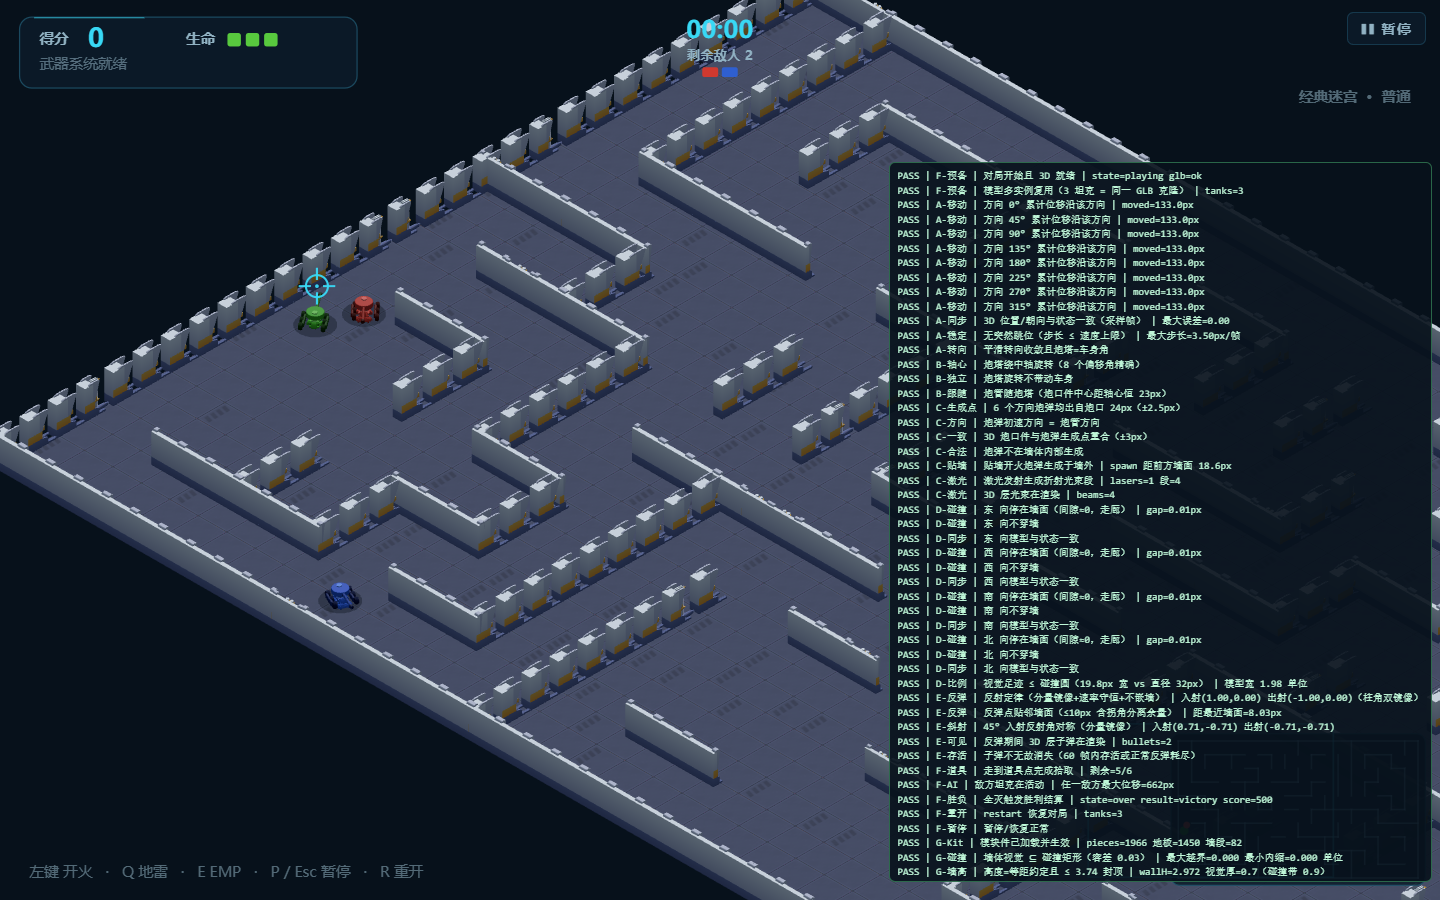
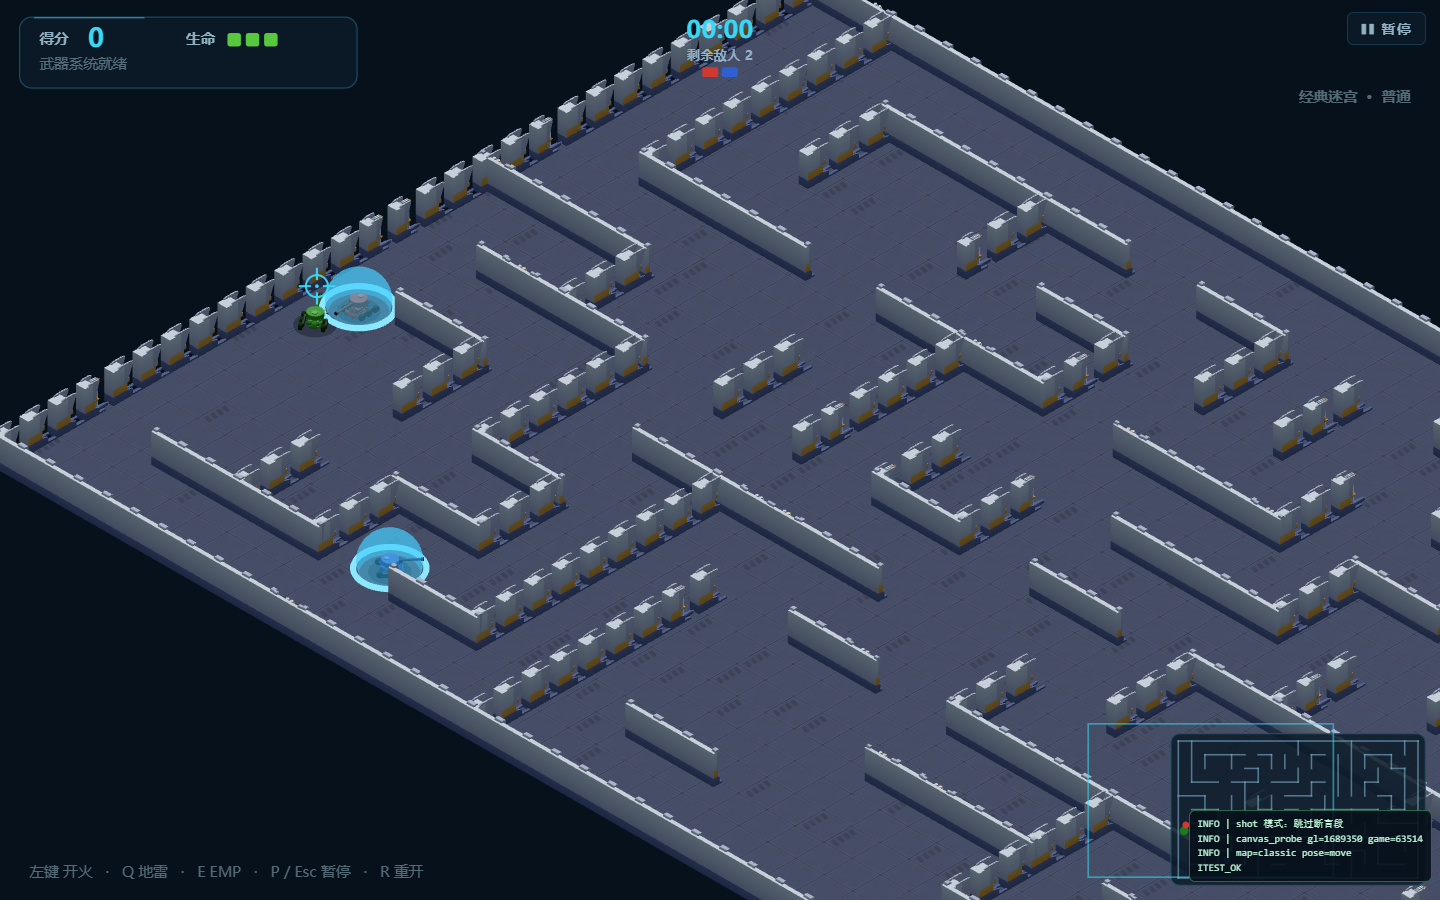
死亡视角停驻 + 3D 护盾可视化（用户试玩反馈两项）
1. 死亡视角：上阶段相机重写引入回归——死亡瞬间 alive=false 使相机目标跳到
   地图中心，画面突兀转移。修复：相机目标跟随坦克对象（尸体位置），死亡倒计时
   期间视角停在死亡位置，重生后才随新出生点移动（与 2D 行为一致）。
   断言：I-死亡 漂移 ≤24px（实测 0.0px）+ 重生后玩家在画面内。

2. 护盾可视化：2D 的复活保护/能量护盾光环（invuln>0 脉冲圆环）此前无 3D 等价物。
   实现：坦克实例挂护盾泡（DoubleSide 半透明青色穹顶，随 invuln*9 脉冲）
   + 基座亮环（实体 torus，任何背景可辨）；死亡/到期显式熄灭。
   断言：I-护盾 拾取后 3D 层可见（shields 0→1）、持续期保持、归零消失。

3. 测试设施：段落断言包 try（异常不再阻断截图摆位，段异常计入 failed）；
   spot 提升 run 级修 'spot is not defined'；新增 &shot=1 截图专用轻量摆位
   （此前 --screenshot 的虚拟时间预算在重型断言段跑完前耗尽，截到菜单/中间态——
   这正是此前截图随机失败的根因）；shieldDebug 场景图诊断 API。

实机截图：integration-shield.png（青色穹顶+基座环清晰包裹坦克）、
integration-death.png（死亡视角停驻+敌方出生保护穹顶）。
回归：92/92 三方面全绿（VM/集成 10 摆位/13 图 rollout 抽样/browser/proto）。
脚本版本升 v=20261025c（强制用户刷新，防缓存混合）。

Changed region(s): [[0.5938, 0.1556, 1.0, 0.9956], [0.2188, 0.5911, 0.3125, 0.6844], [0.2188, 0.28, 0.2812, 0.3733]]

diff --git a/tests/integration-3d.page.js b/tests/integration-3d.page.js
@@ -49,6 +49,7 @@
   function run() {
     const game = window.__tankGame;
     const P3 = window.__proto3d;
+    const SHOT = q.has('shot');   // 截图模式：跳过断言段（虚拟时间预算内完成摆位）
     const iso = game.iso;
     const TAU = Math.PI * 2;
 
@@ -104,7 +105,11 @@
       return game.bullets[game.bullets.length - 1];
     }
 
-    /* ---------- 开局 ---------- */
+    let spot = null;   // run 级：applyPose 需要（try 块内赋值）
+
+    /* ---------- 开局（段落断言包 try：任何异常不阻断截图摆位） ---------- */
+    try {
+      if (SHOT) throw { skip: true };
     game.startMatch({ mapId: MAP, enemies: 2, difficulty: 'normal' });
     everyoneInvuln();
     game.render();
@@ -113,7 +118,7 @@
     check('F-预备 | 模型多实例复用（3 坦克 = 同一 GLB 克隆）', snapshot().tanks.length === 3,
       'tanks=' + snapshot().tanks.length);
 
-    const spot = openSpot(130)
+    spot = openSpot(130)
       || (() => { results.push('FAIL | 预备 | 未找到可站立的开阔点'); return null; })();
     if (!spot) { finish(); return; }
     game.player.x = spot.x; game.player.y = spot.y; game.player.speed = 0;
@@ -611,6 +616,59 @@
           'errors=' + (P3.errors || []).length
           + ((P3.errors && P3.errors.length) ? ' 首条=' + String(P3.errors[0]).slice(0, 120) : ''));
       }
+
+      /* ---------- I 死亡视角 + 护盾可视化（用户实测反馈） ---------- */
+      {
+        game.restart();
+        game.pickups.length = 0; game.pickupTimer = 9999; game.bullets.length = 0;
+        // 敌方全部静默（防碰撞推挤玩家/开火干扰），只考察玩家
+        for (const t of game.tanks) if (!t.isPlayer) t.alive = false;
+        const p = game.player;
+        const dcx = game.viewW / 2, dcy = game.viewH / 2;
+
+        /* ① 死亡期间视角停在死亡位置（不跳地图中心） */
+        p.x = 300; p.y = 300; p.speed = 0; p.invuln = 0;
+        game.camera.follow(p.x, p.y, game.maze.width, game.maze.height);
+        if (game.isoActive) game.followIsoCamera();
+        game.render();
+        const pre = P3.project(p.x, p.y);
+        game.onBulletHit({ ownerId: 99, cluster: false, generation: 2 }, p);   // 击杀玩家
+        const dead0 = !p.alive && game.respawnTimer > 0;
+        for (let i = 0; i < 40; i++) game.update(1 / 60);   // 倒计时中段（<1.4s 不重生）
+        game.render();
+        const mid = P3.project(300, 300);
+        const driftMid = Math.hypot(mid.x - pre.x, mid.y - pre.y);
+        check('I-死亡 | 死亡期间视角停在死亡位置（漂移 ≤24px）', dead0 && driftMid <= 24,
+          'dead=' + dead0 + ' 漂移=' + driftMid.toFixed(1) + 'px');
+        for (let i = 0; i < 160; i++) game.update(1 / 60);  // 跨过重生（延迟1.4s+结算余量）
+        game.render();
+        const post = P3.project(p.x, p.y);
+        // 相机跟随+边缘钳制：出生点贴边时玩家合法偏离中心（拉近视野下更明显），
+        // 正确判据是"玩家在画面内"（跟随不死锁在死亡点/地图中心）
+        const onScreen = Math.min(post.x, game.viewW - post.x, post.y, game.viewH - post.y);
+        const moved = Math.hypot(p.x - 300, p.y - 300) > 50 || (post.x - pre.x) === 0;
+        check('I-死亡 | 重生后视角随新出生点（玩家在画面内）',
+          p.alive && onScreen >= 16 && moved,
+          'alive=' + p.alive + ' 屏幕留白=' + onScreen.toFixed(0) + 'px');
+
+        /* ② 护盾可视化：invuln>0 有护盾泡，归零消失（敌已静默，计数只反映玩家） */
+        p.invuln = 0; game.render();
+        const none = P3.shields;
+        p.applyPickup('shield'); game.render();
+        const on = P3.shields;
+        check('I-护盾 | 拾取能量护盾后坦克出现护盾泡（3D 层可见）', none === 0 && on >= 1,
+          '拾取前=' + none + ' 拾取后=' + on);
+        for (let i = 0; i < 60; i++) game.update(1 / 60);   // 持续期间仍可见
+        game.render();
+        check('I-护盾 | 护盾持续期间保持可见', P3.shields >= 1, 'shields=' + P3.shields);
+        p.invuln = 0; game.render();
+        check('I-护盾 | 护盾到期消失', P3.shields === 0, 'shields=' + P3.shields);
+      }
+    }
+
+    } catch (e) {
+      if (e && e.skip) results.push('INFO | shot 模式：跳过断言段');
+      else { failed++; results.push('FAIL | 段异常 | ' + (e && e.message ? e.message : e)); }
     }
 
     /* ---------- 截图摆位（确定性：摆位 → 冻结逻辑 → 持续重绘） ---------- */
@@ -640,6 +698,8 @@
         return;
       }
       game.startMatch({ mapId: MAP, enemies: 2, difficulty: 'normal' });
+      if (!spot) spot = openSpot(130)
+        || { x: game.maze.width / 2, y: game.maze.height / 2 };   // shot 模式：段落未跑
       // 摆位稳定性约定（与 A–E 段一致）：清道具/全员无敌/重置武器，
       // 避免随机拾取把 fire() 换成激光（炮口摆位将无炮弹）、敌方流弹击毁坦克
       game.pickups.length = 0; game.pickupTimer = 9999;
@@ -661,6 +721,38 @@
         aimMouseAt(p.x + Math.cos(-0.5) * 60, p.y + Math.sin(-0.5) * 60);
         game.update(1 / 60);
         fireOne(-0.5);
+      } else if (pose === 'shield') {
+        p.angle = p.aimAngle = -0.5;
+        aimMouseAt(p.x + Math.cos(-0.5) * 60, p.y + Math.sin(-0.5) * 60);
+        for (const t of game.tanks) if (!t.isPlayer) t.alive = false;  // 只保留玩家（护盾特写）
+        p.applyPickup('shield'); p.invuln = 6;             // 固定 6s 便于截图
+        for (let s = 0; s < 6; s++) game.update(1 / 60);
+        game.render();
+        const scr = P3.project(p.x, p.y);
+        let px = 'n/a';
+        try {
+          const glc = document.getElementById('gl');
+          const sc2 = document.createElement('canvas'); sc2.width = 1; sc2.height = 1;
+          const sctx = sc2.getContext('2d');
+          const pts = [[0, -34, '上'], [-26, -8, '左'], [26, -8, '右'], [0, 18, '下'], [60, -60, '远处对照']];
+          px = pts.map(function (pt) {
+            sctx.drawImage(glc, scr.x + pt[0] - 2, scr.y + pt[1] - 2, 4, 4, 0, 0, 1, 1);
+            const d = sctx.getImageData(0, 0, 1, 1).data;
+            return pt[2] + '=rgb(' + d[0] + ',' + d[1] + ',' + d[2] + ')';
+          }).join(' ');
+        } catch (e2) { px = 'err ' + e2.message; }
+        const dbg = P3.shieldDebug ? P3.shieldDebug(0) : null;
+        results.push('INFO | shield-dbg0 ' + JSON.stringify(dbg));
+        results.push('INFO | shield-diag invuln=' + p.invuln.toFixed(2)
+          + ' shields=' + P3.shields
+          + ' playerScreen=(' + scr.x.toFixed(0) + ',' + scr.y.toFixed(0) + ')'
+          + ' bubbleTopPx=' + px);
+      } else if (pose === 'death') {
+        p.x = spot.x; p.y = spot.y;
+        game.camera.follow(p.x, p.y, game.maze.width, game.maze.height);
+        if (game.isoActive) game.followIsoCamera();
+        game.onBulletHit({ ownerId: 99, cluster: false, generation: 2 }, p);
+        for (let s = 0; s < 30; s++) game.update(1 / 60);  // 倒计时中段定格
       } else if (pose === 'laser') {
         p.angle = p.aimAngle = -0.35;
         aimMouseAt(p.x + Math.cos(-0.35) * 60, p.y + Math.sin(-0.35) * 60);
@@ -700,6 +792,7 @@
     && window.__tankGame.state === 'menu', () => {
     try { run(); }
     catch (e) {
+      failed++;
       results.push('FAIL | 驱动异常 | ' + (e && e.stack ? e.stack.split('\n').slice(0, 2).join(' ') : e));
       finish();
     }

diff --git a/js/three-proto.js b/js/three-proto.js
@@ -371,10 +371,27 @@ import * as BufferGeometryUtils from 'three/addons/utils/BufferGeometryUtils.js'
       shadow.position.y = 0.02;
       scene.add(shadow);
       scene.add(inst);
-      return { root: inst, turret: inst.getObjectByName('TurretPivot'), muzzle: inst.getObjectByName('MuzzleBrake'), shadow };
+      // 护盾泡：对应 2D 的复活保护/能量护盾光环（invuln>0）
+      // NormalBlending：加法混合在浅亮地板上会饱和不可见；普通混合明暗背景都可辨
+      const shield = new THREE.Mesh(
+        new THREE.SphereGeometry(2.35, 24, 16),
+        new THREE.MeshBasicMaterial({ color: 0x45d0ff, transparent: true, opacity: 0.40,
+          depthWrite: false, side: THREE.DoubleSide }));
+      shield.position.y = 0.95;
+      shield.visible = false;
+      inst.add(shield);
+      // 亮色实体光环（对应 2D 描边圆环；俯视角下呈清晰椭圆，任何背景可辨）
+      const shieldRing = new THREE.Mesh(
+        new THREE.TorusGeometry(2.55, 0.22, 8, 48),
+        new THREE.MeshBasicMaterial({ color: 0x8ce8ff }));
+      shieldRing.rotation.x = Math.PI / 2;
+      shieldRing.position.y = 0.35;
+      shieldRing.visible = false;
+      inst.add(shieldRing);
+      return { root: inst, turret: inst.getObjectByName('TurretPivot'), muzzle: inst.getObjectByName('MuzzleBrake'), shadow, shield, shieldRing };
     }
 
-    new GLTFLoader().load('blender-3d/exports/toy_tank.glb?v=20261025b',
+    new GLTFLoader().load('blender-3d/exports/toy_tank.glb?v=20261025c',
       g => { protoRoot = g.scene; report.glb = 'ok'; refreshStatusPanel(); },
       undefined, err => { report.glb = 'fail'; report.errors.push('GLB: ' + err); refreshStatusPanel(); });
 
@@ -472,6 +489,26 @@ import * as BufferGeometryUtils from 'three/addons/utils/BufferGeometryUtils.js'
     }
 
     /* ---------- 测试快照 API（读渲染层真实状态，供自动化验收） ---------- */
+
+    /** 护盾网格诊断（自动化用）：父子关系/世界坐标/在场景中 */
+    report.shieldDebug = function (i) {
+      const inst = tankPool[i];
+      if (!inst || !inst.shield) return null;
+      const v = new THREE.Vector3();
+      inst.shield.getWorldPosition(v);
+      const vr = new THREE.Vector3();
+      inst.shieldRing.getWorldPosition(vr);
+      return {
+        visible: inst.shield.visible,
+        rootVisible: inst.root.visible,
+        parentIsRoot: inst.shield.parent === inst.root,
+        world: [ +v.x.toFixed(2), +v.y.toFixed(2), +v.z.toFixed(2) ],
+        inScene: scene.children.includes(inst.root),
+        rootPos: [ +inst.root.position.x.toFixed(2), +inst.root.position.y.toFixed(2), +inst.root.position.z.toFixed(2) ],
+        ring: { exists: !!inst.shieldRing, visible: inst.shieldRing ? inst.shieldRing.visible : null,
+          world: [ +vr.x.toFixed(2), +vr.y.toFixed(2), +vr.z.toFixed(2) ] }
+      };
+    };
 
     /** 世界坐标 → 屏幕像素（3D 相机投影；缩放/取景无关的瞄准基准） */
     report.project = function (wx, wy) {
@@ -577,8 +614,10 @@ import * as BufferGeometryUtils from 'three/addons/utils/BufferGeometryUtils.js'
           camera.updateProjectionMatrix();
           renderer.setSize(game.viewW, game.viewH, false);
         }
-        const tx0 = pl && pl.alive ? pl.x / PX : maze.width / PX / 2;
-        const tz0 = pl && pl.alive ? pl.y / PX : maze.height / PX / 2;
+        /* 死亡期间视角停在死亡位置（与 2D 行为一致：跟随坦克对象——尸体
+         * 位置直到重生才变），不得跳地图中心（曾因此死亡瞬间画面突兀跳转） */
+        const tx0 = pl ? pl.x / PX : maze.width / PX / 2;
+        const tz0 = pl ? pl.y / PX : maze.height / PX / 2;
         // 先对准玩家（菜单对准地图中心），探针求 K 矩阵
         tmpV.set(tx0, 0, tz0);
         camera.position.copy(tmpV).addScaledVector(camDir, 200);
@@ -644,6 +683,19 @@ import * as BufferGeometryUtils from 'three/addons/utils/BufferGeometryUtils.js'
         for (let i = 0; i < game.tanks.length; i++) {
           const tank = game.tanks[i], inst = tankPool[i];
           inst.root.visible = inst.shadow.visible = tank.alive;
+          /* 护盾/复活保护可视化：门控在 alive 检查前，死亡时显式熄灭（无残留） */
+          if (inst.shield) {
+            const on = tank.alive && tank.invuln > 0;
+            inst.shield.visible = on;
+            if (inst.shieldRing) inst.shieldRing.visible = on;
+            if (on) {
+              const pulse = 0.5 + 0.5 * Math.sin(tank.invuln * 9);
+              inst.shield.material.opacity = 0.42 + 0.22 * pulse;
+              const k = 1 + 0.06 * pulse;
+              inst.shield.scale.set(k, k, k);
+              if (inst.shieldRing) inst.shieldRing.scale.set(k, k, 1);
+            }
+          }
           if (!tank.alive) continue;
           inst.root.position.set(tank.x / PX, 0, tank.y / PX);
           inst.root.rotation.y = Math.PI / 2 - tank.angle;
@@ -657,6 +709,7 @@ import * as BufferGeometryUtils from 'three/addons/utils/BufferGeometryUtils.js'
         }
       }
       report.tanks = menu ? 0 : game.tanks.length;
+      report.shields = menu ? 0 : tankPool.reduce(function (n, i) { return n + (i.shield && i.shield.visible && i.root.visible ? 1 : 0); }, 0);   // 计数基于护盾泡
 
       /* 子弹 */
       bulletPool.hideAll();

diff --git a/prototype-3d.html b/prototype-3d.html
@@ -157,28 +157,28 @@
 <div id="proto-status">初始化…</div>
 
 <!-- 与 index.html 完全相同的游戏脚本（本阶段不修改任何现有文件） -->
-<script src="js/config.js?v=20261025b"></script><script src="js/mapsize.js?v=20261025b"></script>
-<script src="js/utils.js?v=20261025b"></script>
-<script src="js/isoview.js?v=20261025b"></script>
-<script src="js/physics.js?v=20261025b"></script>
-<script src="js/maze.js?v=20261025b"></script>
-<script src="js/bullet.js?v=20261025b"></script>
-<script src="js/tank.js?v=20261025b"></script>
-<script src="js/effects.js?v=20261025b"></script>
-<script src="js/pickup.js?v=20261025b"></script>
-<script src="js/pickup-icons.js?v=20261025b"></script>
-<script src="js/pickup-demos.js?v=20261025b"></script>
-<script src="js/ai.js?v=20261025b"></script>
-<script src="js/control.js?v=20261025b"></script>
-<script src="js/game.js?v=20261025b"></script>
-<script src="js/ui.js?v=20261025b"></script>
-<script src="js/main.js?v=20261025b"></script>
+<script src="js/config.js?v=20261025c"></script><script src="js/mapsize.js?v=20261025c"></script>
+<script src="js/utils.js?v=20261025c"></script>
+<script src="js/isoview.js?v=20261025c"></script>
+<script src="js/physics.js?v=20261025c"></script>
+<script src="js/maze.js?v=20261025c"></script>
+<script src="js/bullet.js?v=20261025c"></script>
+<script src="js/tank.js?v=20261025c"></script>
+<script src="js/effects.js?v=20261025c"></script>
+<script src="js/pickup.js?v=20261025c"></script>
+<script src="js/pickup-icons.js?v=20261025c"></script>
+<script src="js/pickup-demos.js?v=20261025c"></script>
+<script src="js/ai.js?v=20261025c"></script>
+<script src="js/control.js?v=20261025c"></script>
+<script src="js/game.js?v=20261025c"></script>
+<script src="js/ui.js?v=20261025c"></script>
+<script src="js/main.js?v=20261025c"></script>
 
 <!-- 3D 接入验收驱动：仅 ?itest=1 时生效（无头自动化用） -->
 <script src="tests/integration-3d.page.js"></script>
 
 <!-- 3D 视图原型（模块，经 importmap 解析本地 vendor 依赖） -->
-<script type="module" src="js/three-proto.js?v=20261025b"></script>
+<script type="module" src="js/three-proto.js?v=20261025c"></script>
 
 <!-- 诊断（内联，不依赖模块成功加载）：报告游戏与模块的就绪状态 -->
 <script>

diff --git a/index.html b/index.html
@@ -165,29 +165,29 @@
   </div>
 </div>
 
-<script src="js/config.js?v=20261025b"></script>
-<script src="js/mapsize.js?v=20261025b"></script>
-<script src="js/utils.js?v=20261025b"></script>
-<script src="js/isoview.js?v=20261025b"></script>
-<script src="js/physics.js?v=20261025b"></script>
-<script src="js/maze.js?v=20261025b"></script>
-<script src="js/bullet.js?v=20261025b"></script>
-<script src="js/tank.js?v=20261025b"></script>
-<script src="js/effects.js?v=20261025b"></script>
-<script src="js/pickup.js?v=20261025b"></script>
-<script src="js/pickup-icons.js?v=20261025b"></script>
-<script src="js/pickup-demos.js?v=20261025b"></script>
-<script src="js/ai.js?v=20261025b"></script>
-<script src="js/control.js?v=20261025b"></script>
-<script src="js/game.js?v=20261025b"></script>
-<script src="js/ui.js?v=20261025b"></script>
-<script src="js/pickup-legend.js?v=20261025b"></script>
-<script src="js/main.js?v=20261025b"></script>
+<script src="js/config.js?v=20261025c"></script>
+<script src="js/mapsize.js?v=20261025c"></script>
+<script src="js/utils.js?v=20261025c"></script>
+<script src="js/isoview.js?v=20261025c"></script>
+<script src="js/physics.js?v=20261025c"></script>
+<script src="js/maze.js?v=20261025c"></script>
+<script src="js/bullet.js?v=20261025c"></script>
+<script src="js/tank.js?v=20261025c"></script>
+<script src="js/effects.js?v=20261025c"></script>
+<script src="js/pickup.js?v=20261025c"></script>
+<script src="js/pickup-icons.js?v=20261025c"></script>
+<script src="js/pickup-demos.js?v=20261025c"></script>
+<script src="js/ai.js?v=20261025c"></script>
+<script src="js/control.js?v=20261025c"></script>
+<script src="js/game.js?v=20261025c"></script>
+<script src="js/ui.js?v=20261025c"></script>
+<script src="js/pickup-legend.js?v=20261025c"></script>
+<script src="js/main.js?v=20261025c"></script>
 
 <!-- 3D 接入验收驱动：仅 ?itest=1 时生效（无头自动化用） -->
 <script src="tests/integration-3d.page.js"></script>
 
 <!-- 3D 视图层（模块）：http(s) 下生效并接管世界渲染；file:// 下加载失败 → 原版渲染 -->
-<script type="module" src="js/three-proto.js?v=20261025b"></script>
+<script type="module" src="js/three-proto.js?v=20261025c"></script>
 </body>
 </html>

diff --git a/tests/integration-check.js b/tests/integration-check.js
@@ -31,7 +31,7 @@ const tmp = path.join(root, 'node-tmp');
 fs.mkdirSync(tmp, { recursive: true });
 
 const SCENARIOS = [
-  { pose: 'overview' }, { pose: 'menu' }, { pose: 'move' }, { pose: 'turret' }, { pose: 'muzzle' }, { pose: 'laser' }, { pose: 'wall' }, { pose: 'bounce' }
+  { pose: 'overview' }, { pose: 'menu' }, { pose: 'move' }, { pose: 'turret' }, { pose: 'muzzle' }, { pose: 'laser' }, { pose: 'shield' }, { pose: 'death' }, { pose: 'wall' }, { pose: 'bounce' }
 ];
 
 function edge(args, tag) {
@@ -45,7 +45,7 @@ function edge(args, tag) {
     '--headless', '--enable-unsafe-swiftshader', '--hide-scrollbars',
     '--no-first-run', '--no-default-browser-check',
     '--user-data-dir=' + path.join(tmp, 'profile-' + tag),
-    '--window-size=1440,900', '--virtual-time-budget=14000'
+    '--window-size=1440,900', '--virtual-time-budget=16000'   // 与 rollout 一致；14s 在多实例负载下偶发超时
   ].concat(args), { timeout: 90000, encoding: 'utf8', maxBuffer: 32e6 });
 }
 
@@ -56,7 +56,7 @@ for (const sc of SCENARIOS) {
   const url = BASE + ENTRY + '?itest=1&pose=' + sc.pose;
   const png = path.join(outDir, 'integration-' + sc.pose + '.png');
   try {
-    edge(['--screenshot=' + png, url], 'shot-' + sc.pose);
+    edge(['--screenshot=' + png, url + '&shot=1'], 'shot-' + sc.pose);   // 截图走轻量摆位（虚拟时间预算内完成）
   } catch (e) {
     console.log('[失败] ' + sc.pose + ' 截图执行异常: ' + String(e.message).split('\n')[0]);
     failedTotal++;
